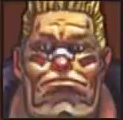
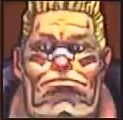
Add a solved contrast curve; match spread, not just endpoints
The head-shots read flat because matching black point, white point and
midtone still leaves the distribution bunched — spread came out 14-21
against the official art's 24.2. A two-segment power curve hinged on the
image's own median now solves for the strength that reaches reference
spread, and head-shots get a higher chroma ceiling and finer clarity
radius via a per-kind profile.

Head-shots no longer match the reference MEDIAN: that median comes from
full-body cut-outs where every pixel is character, while a head-shot
includes its dark backdrop, so forcing it up brightened and flattened
the faces.

diff --git a/scripts/enhance-racer-art.py b/scripts/enhance-racer-art.py
@@ -67,12 +67,99 @@ RAW = ROOT / "assets-src" / "racers-raw"
 # The official renders. Everything else gets matched to these.
 REFERENCE = ["Beast", "Dee", "Driftking", "Hotty", "Rex", "Turboboy", "Twins", "UFO", "tailfin"]
 
-# Ceilings, deliberately conservative. See the module docstring.
-MAX_CHROMA_GAIN = 1.55
 MAX_STRETCH = 2.2
 CAST_STRENGTH = 0.8      # how much of the measured colour cast to remove
-CLARITY_AMOUNT = 0.35
-CLARITY_RADIUS = 3.0
+
+# Per-kind, because the two kinds of art fail differently.
+#
+# A vehicle is a 400px render of a shiny object; it mostly needs its haze
+# removed and then leaving alone.
+#
+# A head-shot is a 120px painted icon lifted from video. It is soft, it is dull,
+# and — the part that took a second pass to notice — `match_median` is WRONG for
+# it. The reference median comes from official portraits, which are full-body
+# cut-outs on transparency: every measured pixel is character. A head-shot
+# includes its dark backdrop across a third of the frame, which legitimately
+# pulls its median down. Forcing that median up to the reference's brightened the
+# faces and flattened them, which is exactly the "overly highlighted, blended"
+# look. Head-shots therefore match SPREAD, not median: darker darks and brighter
+# brights at the same overall level.
+PROFILE = {
+    "vehicle": {
+        "chroma_max": 1.55,
+        "clarity": 0.35,
+        "clarity_radius": 3.0,
+        "match_median": True,
+        "gamma_range": (0.6, 1.7),
+    },
+    "headshot": {
+        "chroma_max": 1.95,
+        "clarity": 0.85,
+        # Small radius on a small image. A 3px radius on a 120px icon is a
+        # regional brightness shift, not sharpening.
+        "clarity_radius": 1.2,
+        "match_median": False,
+        "gamma_range": (0.92, 1.08),
+    },
+    "portrait": {
+        "chroma_max": 1.55,
+        "clarity": 0.35,
+        "clarity_radius": 3.0,
+        "match_median": True,
+        "gamma_range": (0.6, 1.7),
+    },
+}
+
+
+def s_curve(x: np.ndarray, g: float, pivot: float) -> np.ndarray:
+    """
+    Contrast curve that pins both endpoints and hinges on `pivot`.
+
+    Pure gamma can only push an image brighter or darker as a whole; it cannot
+    pull the shadows down AND the highlights up at once, which is what "needs
+    contrast" actually means. Two power segments joined at the pivot do both:
+
+        x < pivot   y = p·(x/p)^g                  flat at black, steep into p
+        x ≥ pivot   y = p + (1-p)·(1-((1-x)/(1-p))^g)   steep out of p, flat at white
+
+    Both map 0→0, pivot→pivot, 1→1, and meet with slope g at the pivot, so the
+    black and white points the levels pass established survive untouched.
+
+    The pivot is the image's OWN median, which makes this a pure contrast change
+    with no exposure shift: half the pixels sit below the hinge and get darker,
+    half sit above and get brighter, and the median comes out where it went in.
+
+    Two wrong pivots were tried first, and both failed in the same direction.
+    Hinging at mid-range took a head-shot's median from 43 to 52; hinging at the
+    reference midtone was worse, 43 to 64 — because with a low hinge almost every
+    pixel lands in the upper, lifting branch. Both were asked to add contrast and
+    delivered "brighter" instead. Only the self-median hinge separates the two.
+    """
+    if g <= 1.0 + 1e-6:
+        return x
+    p = float(np.clip(pivot, 0.05, 0.95))
+    below = p * np.power(np.clip(x, 0, None) / p, g)
+    above = p + (1 - p) * (1 - np.power(np.clip(1 - x, 0, None) / (1 - p), g))
+    return np.where(x < p, below, above)
+
+
+def solve_curve(x: np.ndarray, target_std: float, span: float, pivot: float) -> float:
+    """
+    Bisect for the curve strength that reaches the reference's tonal spread.
+
+    Solved rather than dialled in by hand, because "how much contrast" has an
+    answer here: as much as the official art has.
+    """
+    if np.std(x) * span >= target_std:
+        return 1.0  # already at or above the reference spread — don't touch it
+    lo, hi = 1.0, 6.0
+    for _ in range(40):
+        mid = (lo + hi) / 2
+        if np.std(s_curve(x, mid, pivot)) * span < target_std:
+            lo = mid
+        else:
+            hi = mid
+    return (lo + hi) / 2
 
 
 def load(path: Path):
@@ -135,7 +222,7 @@ def reference(kind: str) -> dict:
     }
 
 
-def enhance(lab: np.ndarray, opaque: np.ndarray, ref: dict, notes: list) -> np.ndarray:
+def enhance(lab: np.ndarray, opaque: np.ndarray, ref: dict, prof: dict, notes: list) -> np.ndarray:
     src = stats(lab, opaque)
     out = lab.copy()
     L, a, b = out[:, :, 0], out[:, :, 1], out[:, :, 2]
@@ -158,8 +245,8 @@ def enhance(lab: np.ndarray, opaque: np.ndarray, ref: dict, notes: list) -> np.n
     #    black point I had just set — every image reported a black point of 0.0
     #    instead of the reference's 1.8, and shadow detail was being clipped away
     #    after the work to place it. Levels last means the endpoints are exact.
-    blur = cv2.GaussianBlur(L, (0, 0), CLARITY_RADIUS)
-    L[:] = L + CLARITY_AMOUNT * (L - blur)
+    blur = cv2.GaussianBlur(L, (0, 0), prof["clarity_radius"])
+    L[:] = L + prof["clarity"] * (L - blur)
 
     # 3. Black and white point. Video-captured art never reaches true black, so
     #    this is the adjustment that does most of the visible work.
@@ -174,24 +261,42 @@ def enhance(lab: np.ndarray, opaque: np.ndarray, ref: dict, notes: list) -> np.n
     # 4. Gamma so the midtone lands where the reference's does. Levels alone fix
     #    the endpoints and leave the middle wherever it fell.
     lo, hi = ref["L_lo"], ref["L_hi"]
-    norm = np.clip((L - lo) / max(hi - lo, 1e-3), 0, 1)
-    med_now = np.clip((np.percentile(L[opaque], 50) - lo) / max(hi - lo, 1e-3), 1e-3, 0.999)
-    med_ref = np.clip((ref["L_med"] - lo) / max(hi - lo, 1e-3), 1e-3, 0.999)
-    gamma_want = np.log(med_ref) / np.log(med_now)
-    gamma = float(np.clip(gamma_want, 0.6, 1.7))
+    span = max(hi - lo, 1e-3)
+    norm = np.clip((L - lo) / span, 0, 1)
+    if prof["match_median"]:
+        med_now = np.clip((np.percentile(L[opaque], 50) - lo) / span, 1e-3, 0.999)
+        med_ref = np.clip((ref["L_med"] - lo) / span, 1e-3, 0.999)
+        gamma_want = np.log(med_ref) / np.log(med_now)
+    else:
+        gamma_want = 1.0
+    g_lo, g_hi = prof["gamma_range"]
+    gamma = float(np.clip(gamma_want, g_lo, g_hi))
     if abs(gamma - gamma_want) > 0.01:
         notes.append(f"gamma CLAMPED {gamma_want:.2f}→{gamma:.2f} "
                      f"(midtone will land above target)")
-    L[:] = np.power(norm, gamma) * (hi - lo) + lo
+    norm = np.power(norm, gamma)
 
-    # 5. Chroma. Scaling a and b together is a saturation change that leaves hue
+    # 5. Contrast: solve for the S-curve that reaches the reference's spread.
+    #    This is the step that answers "missing blacks and whites" — the levels
+    #    pass sets where black and white ARE, but only a curve puts pixels there.
+    pivot = float(np.median(norm[opaque]))
+    g = solve_curve(norm[opaque], ref["L_std"], span, pivot)
+    if g <= 1.0:
+        notes.append("spread already at reference — no contrast curve applied")
+    else:
+        notes.append(f"contrast curve g={g:.2f} hinged at own median "
+                     f"L*{pivot * span + lo:.1f} to reach spread {ref['L_std']:.1f}")
+    norm = s_curve(norm, g, pivot)
+    L[:] = norm * span + lo
+
+    # 6. Chroma. Scaling a and b together is a saturation change that leaves hue
     #    alone, which `-modulate`'s HSL saturation does not — that one pushes
     #    already-vivid reds until they clip, and clipped red loses its shading.
     have = stats(out, opaque)["chroma"]
     gain_want = ref["chroma"] / max(have, 1e-3)
-    gain = min(gain_want, MAX_CHROMA_GAIN)
-    if gain_want > MAX_CHROMA_GAIN:
-        notes.append(f"chroma gain CLAMPED {gain_want:.2f}→{MAX_CHROMA_GAIN}")
+    gain = min(gain_want, prof["chroma_max"])
+    if gain_want > prof["chroma_max"]:
+        notes.append(f"chroma gain CLAMPED {gain_want:.2f}→{prof['chroma_max']}")
     if gain < 1.0:
         # The reference chroma is a median across nine vehicles, several of them
         # largely black. A genuinely vivid car sits above it legitimately, and
@@ -252,7 +357,7 @@ def main():
         lab, alpha, opaque = load(path)
         before = stats(lab, opaque)
         notes: list = []
-        graded = enhance(lab, opaque, refs[kind], notes)
+        graded = enhance(lab, opaque, refs[kind], PROFILE[kind], notes)
         after = stats(graded, opaque)
 
         print(f"{stem}   ({before['n']:,} opaque px)")
